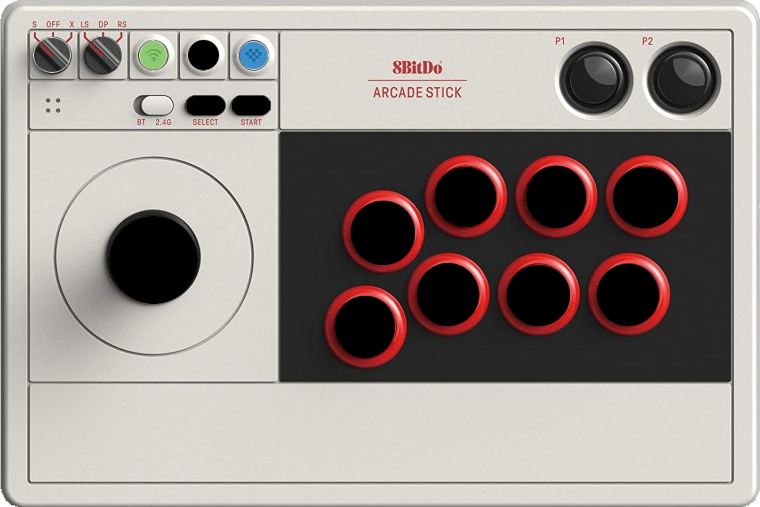
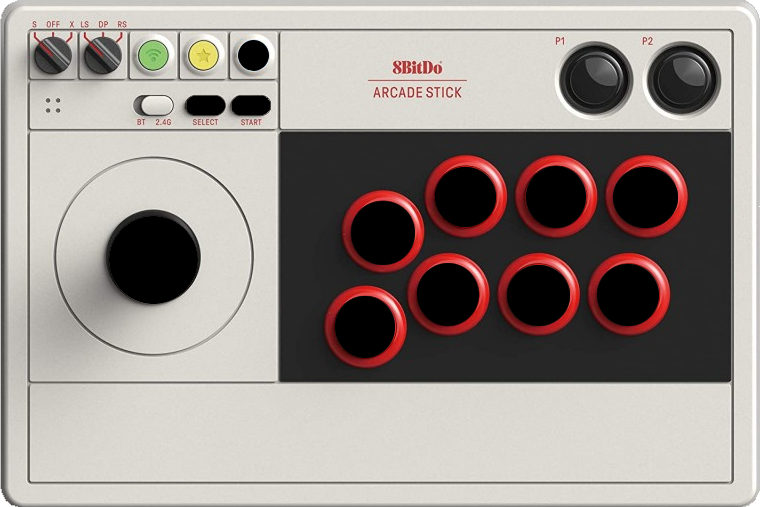
fix(arcadestick): restore fix buttons as original + switch heart/star for guide button finally

diff --git a/src/frontend/menu/settings/GamepadEditor.qml b/src/frontend/menu/settings/GamepadEditor.qml
@@ -794,10 +794,10 @@ FocusScope {
                             padStartLeftX: 230;
 
                             //parameters for home/guide/hotkey
-                            padGuideWidth : 31;
+                            padGuideWidth : 30;
                             padGuideHeight : 30;
                             padGuideTopY: 40;
-                            padGuideLeftX: 188 ;
+                            padGuideLeftX: 239 ;
 
                             //parameters for A/B/X/Y
                             //As A
